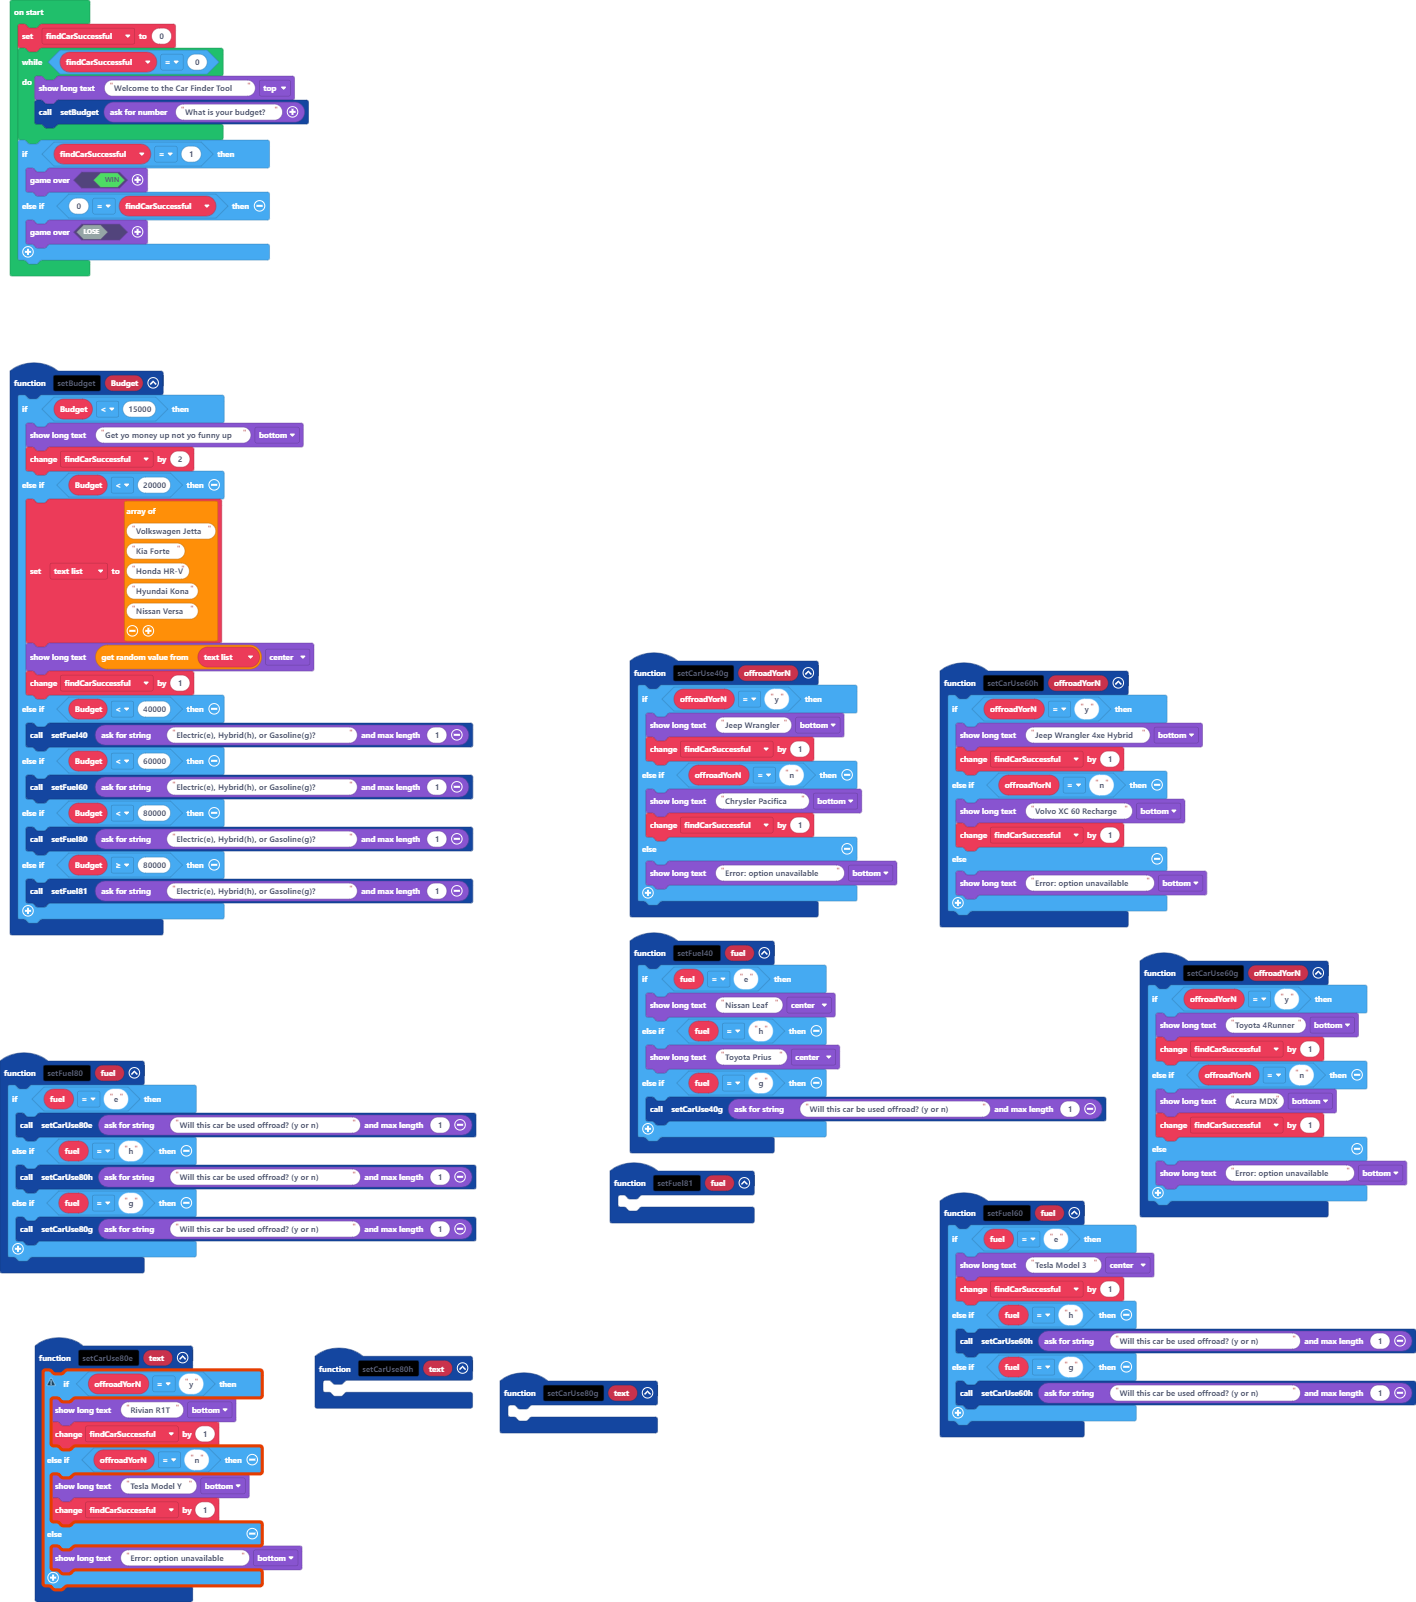
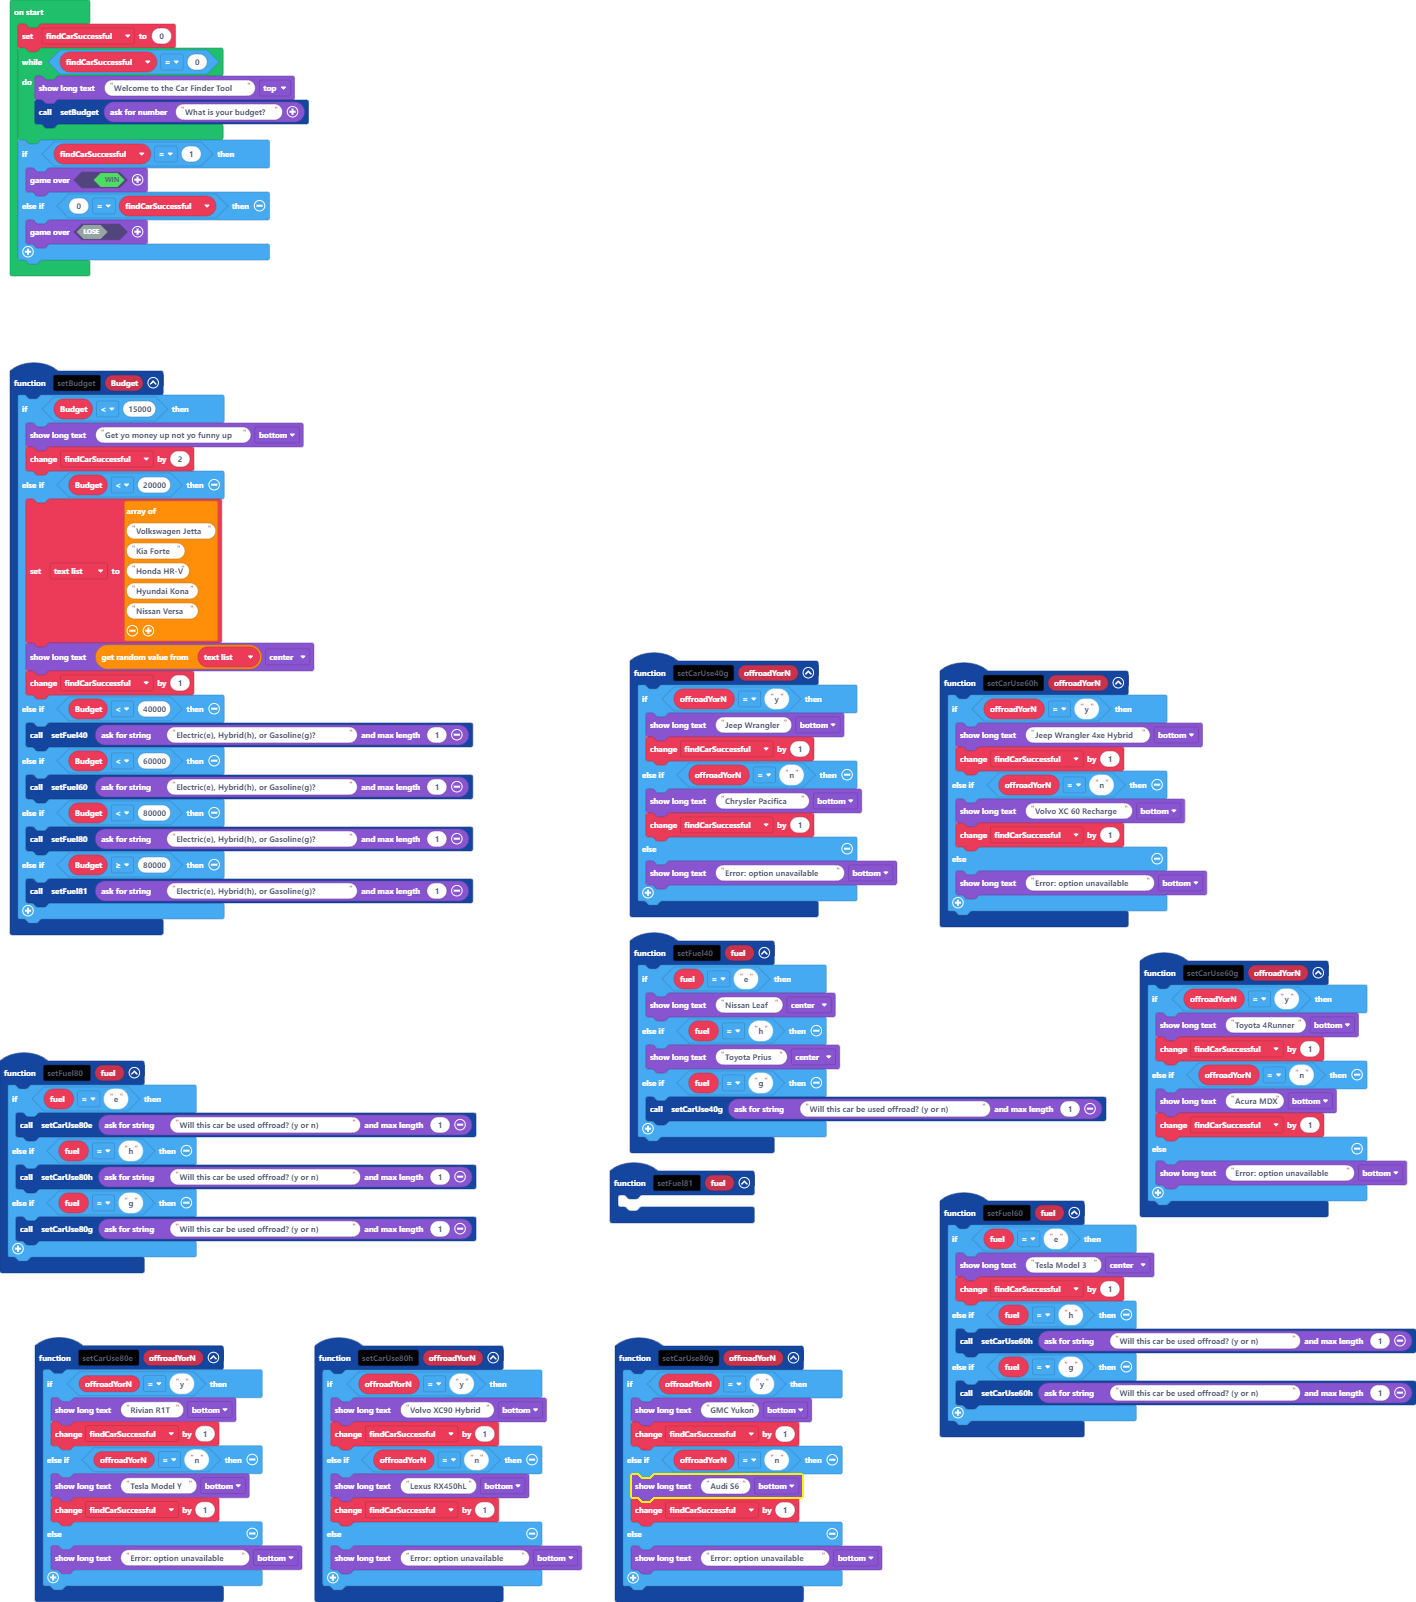
Update main.blocks, main.ts

Changed region(s): [[0.2175, 0.8115, 0.6215, 1.0], [0.0311, 0.8427, 0.1864, 1.0]]

diff --git a/main.ts b/main.ts
@@ -65,8 +65,16 @@ function setFuel40 (fuel: string) {
 function setFuel81 (fuel: string) {
 	
 }
-function setCarUse80h (text: string) {
-	
+function setCarUse80h (offroadYorN: string) {
+    if (offroadYorN == "y") {
+        game.showLongText("Volvo XC90 Hybrid", DialogLayout.Bottom)
+        findCarSuccessful += 1
+    } else if (offroadYorN == "n") {
+        game.showLongText("Lexus RX450hL", DialogLayout.Bottom)
+        findCarSuccessful += 1
+    } else {
+        game.showLongText("Error: option unavailable", DialogLayout.Bottom)
+    }
 }
 function setCarUse40g (offroadYorN: string) {
     if (offroadYorN == "y") {
@@ -79,7 +87,7 @@ function setCarUse40g (offroadYorN: string) {
         game.showLongText("Error: option unavailable", DialogLayout.Bottom)
     }
 }
-function setCarUse80e (text: string) {
+function setCarUse80e (offroadYorN: string) {
     if (offroadYorN == "y") {
         game.showLongText("Rivian R1T", DialogLayout.Bottom)
         findCarSuccessful += 1
@@ -100,8 +108,16 @@ function setFuel60 (fuel: string) {
         setCarUse60h(game.askForString("Will this car be used offroad? (y or n)", 1))
     }
 }
-function setCarUse80g (text: string) {
-	
+function setCarUse80g (offroadYorN: string) {
+    if (offroadYorN == "y") {
+        game.showLongText("GMC Yukon", DialogLayout.Bottom)
+        findCarSuccessful += 1
+    } else if (offroadYorN == "n") {
+        game.showLongText("Audi S6", DialogLayout.Bottom)
+        findCarSuccessful += 1
+    } else {
+        game.showLongText("Error: option unavailable", DialogLayout.Bottom)
+    }
 }
 let text_list: string[] = []
 let findCarSuccessful = 0
